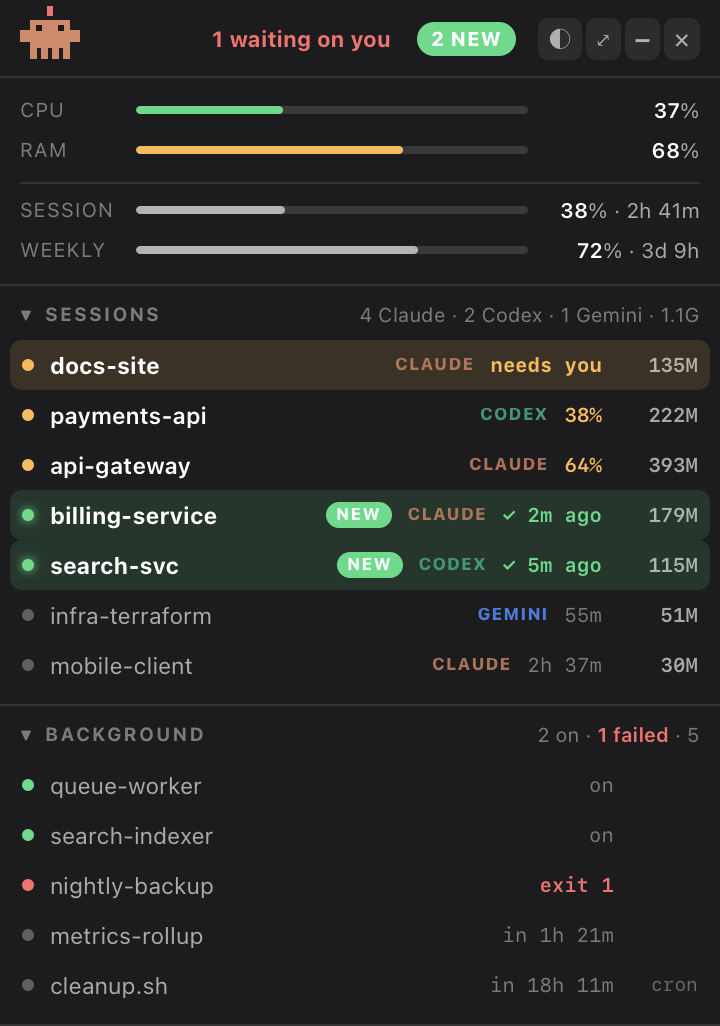
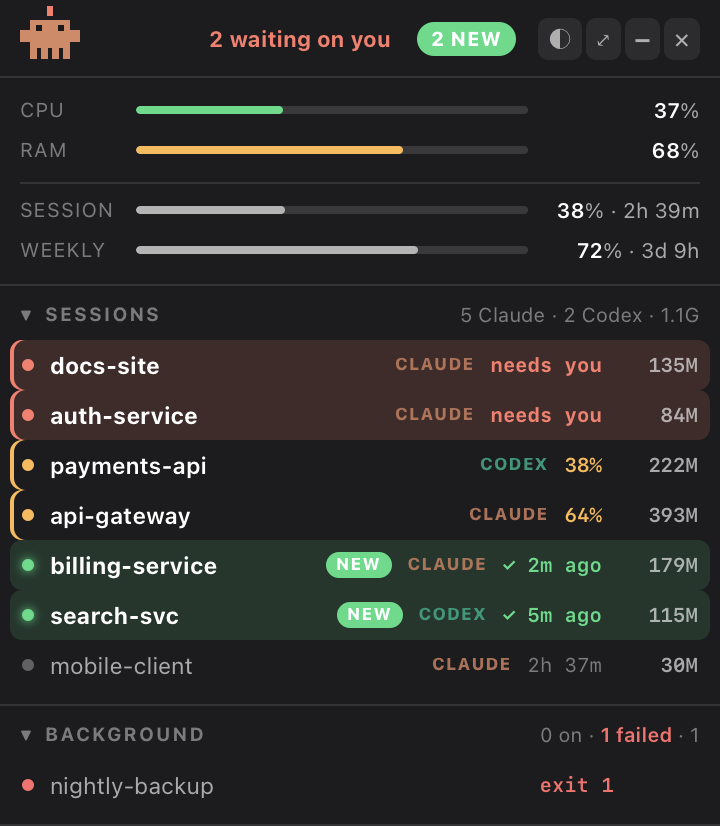
Fix stale "needs you", give each state its own colour, stop the list moving
Three things, all reported from real use:

A session showed "needs you" while it was actively working. Answering a
*permission* prompt submits no prompt, so the clearing hook never fires and the
marker survived until the turn ended. Busy now clears it directly — a session
that is working cannot be blocked on a human.

Working and needs-you were both amber, so the two most different states looked
identical. Needs-you gets its own red token, working keeps amber, done stays
green, and each row carries a matching left edge.

A single click jumped to the terminal *and* re-ranked the row, so the list
re-sorted mid-double-click and the second click hit whatever had moved into
place. Jumping is now double-click, and the order is frozen while the pointer
is over the list.

Also adds a per-alert "push down" control, for a "needs you" that isn't
actually urgent: it stops the character waving and the title bar shouting, but
the same session asking again later comes back to the top.

diff --git a/ui.html b/ui.html
@@ -15,9 +15,12 @@
     --track: rgba(0,0,0,.13);
     --hover: rgba(0,0,0,.06);
     --idle:  rgba(0,0,0,.30);
-    --busy:  #c26a00;
-    --done:  #12833f;
+    --busy:  #c26a00;   /* working — in progress */
+    --wait:  #d32f2f;   /* needs you — you are the blocker */
+    --done:  #12833f;   /* finished */
     --fail:  #c62828;
+    --waitBg:  rgba(211,47,47,.12);
+    --waitLine:rgba(211,47,47,.38);
     --bannerBg:  rgba(18,131,63,.13);
     --bannerLine:rgba(18,131,63,.40);
   }
@@ -31,8 +34,11 @@
     --hover: rgba(255,255,255,.07);
     --idle:  rgba(255,255,255,.30);
     --busy:  #ffb84d;
+    --wait:  #ff7a6b;
     --done:  #3ddc84;
     --fail:  #ff6b6b;
+    --waitBg:  rgba(255,122,107,.16);
+    --waitLine:rgba(255,122,107,.42);
     --bannerBg:  rgba(61,220,132,.14);
     --bannerLine:rgba(61,220,132,.34);
   }
@@ -60,7 +66,7 @@
   #tally{margin-left:auto;font-size:11px;color:var(--fg2);white-space:nowrap;
        overflow:hidden;text-overflow:ellipsis;min-width:0}
   #tally b{color:var(--busy);font-weight:700}
-  #tally b.wait{color:var(--fail)}
+  #tally b.wait{color:var(--wait)}
   #minstat{display:none;font-size:10.5px;color:var(--fg3);white-space:nowrap}
   body.min #minstat{display:inline}
   .btns{display:flex;gap:2px;flex:none;margin-left:4px}
@@ -126,17 +132,17 @@
   @keyframes chHop{0%,100%{transform:translateY(0)}45%{transform:translateY(-4px)}}
   @keyframes chWave{0%,100%{transform:rotate(-20deg)}50%{transform:rotate(-65deg)}}
   @keyframes chBang{0%,100%{opacity:1}50%{opacity:.25}}
-  .ch .bang{display:none;fill:var(--fail)}
+  .ch .bang{display:none;fill:var(--wait)}
   .ch .arm-l{transform-origin:2px 3px}
   .ch .arm-r{transform-origin:9px 3px}
   .ch .eyes{transform-origin:5.5px 1.5px}
 
   /* a session blocked on you outranks everything else */
-  .row.waiting{background:rgba(194,106,0,.14)}
-  body.dark .row.waiting{background:rgba(255,184,77,.14)}
-  .row.waiting .st{background:var(--busy);animation:chBang .8s ease-in-out infinite}
+  .row.waiting{background:var(--waitBg);
+               box-shadow:inset 2px 0 0 var(--wait)}
+  .row.waiting .st{background:var(--wait);animation:chBang .8s ease-in-out infinite}
   .row.waiting .nm{color:var(--fg);font-weight:700}
-  .row.waiting .meta{color:var(--busy);font-weight:700}
+  .row.waiting .meta{color:var(--wait);font-weight:700}
 
   /* ---------- collapsed (minimised) ---------- */
   body.min .sec,body.min #banner{display:none !important}
@@ -150,8 +156,8 @@
      panel raises its own alarm: it is always on top anyway. */
   body.alerting{animation:alertPulse .7s ease-in-out 6}
   @keyframes alertPulse{
-    0%,100%{box-shadow:inset 0 0 0 0 rgba(198,40,40,0)}
-    50%    {box-shadow:inset 0 0 0 3px rgba(198,40,40,.85)}
+    0%,100%{box-shadow:inset 0 0 0 0 transparent}
+    50%    {box-shadow:inset 0 0 0 3px var(--waitLine)}
   }
 
   /* ---------- finished banner ---------- */
@@ -214,6 +220,7 @@
   body.compact .row{padding:3px 5px;gap:6px}
   .row:hover{background:var(--hover)}
   .row .st{width:6px;height:6px;border-radius:50%;flex:none;background:var(--idle)}
+  .row.busy{box-shadow:inset 2px 0 0 var(--busy)}
   .row.busy .st{background:var(--busy);animation:breathe 1.5s ease-in-out infinite}
   .row.done .st{background:var(--done);box-shadow:0 0 6px var(--done)}
   .row.fail .st{background:var(--fail)}
@@ -241,6 +248,12 @@
   .row .prov{flex:none;font-size:8.5px;font-weight:800;letter-spacing:.05em;
              text-transform:uppercase;opacity:.9}
   body.single-provider .row .prov{display:none}
+  /* push a "needs you" down when it isn't actually urgent */
+  .row .push{display:none;flex:none;font-size:11px;line-height:1;color:var(--fg3);
+             padding:2px 4px;border-radius:4px}
+  .row.waiting:hover .push{display:inline-block}
+  .row .push:hover{color:var(--fg);background:var(--track)}
+  .row.pushed .st{opacity:.5}
   .row .mem{flex:none;font-size:10px;color:var(--fg2);min-width:40px;
             text-align:right;font-weight:600}
   .row.heavy .mem{color:var(--fail)}
@@ -392,6 +405,29 @@ function maybeNotify(list){
   if (changed) localStorage.setItem('hudNotified', JSON.stringify(notified));
 }
 
+/* ---------- de-prioritised "needs you" ------------------------------------
+   Keyed by the waiting timestamp, so pushing one down is only for *this*
+   interruption — if the same session asks again later it comes straight back
+   to the top. */
+let pushed = {};
+try { pushed = JSON.parse(localStorage.getItem('hudPushed') || '{}'); } catch(e){}
+const isWaiting = s => s.status === 'waiting' && pushed[s.sid] !== s.waitingAt;
+function pushDown(s){
+  if (s.waitingAt != null) {
+    pushed[s.sid] = s.waitingAt;
+    localStorage.setItem('hudPushed', JSON.stringify(pushed));
+  }
+}
+
+/* ---------- keep the list still under the cursor ---------------------------
+   Rank changes (marking one read, one going idle) used to re-sort the list
+   mid-click, so the second half of a double click landed on whatever row had
+   slid into that spot. Freeze the order while the pointer is inside it. */
+let frozen = null;
+function freezeOrder(){
+  frozen = [...$('list-s').children].map(r => r.dataset.k);
+}
+
 /* ---------- window dragging: anywhere that isn't a control ---------- */
 document.addEventListener('mousedown', e => {
   if (e.target.closest('.row, .hd, .xbtn, #banner, #badge')) return;
@@ -428,7 +464,7 @@ const bytes = b => b == null ? ''
 const PAL = {
   light:{fail:'#c62828', busy:'#c26a00', done:'#12833f', calm:'rgba(0,0,0,.45)'},
   dark: {fail:'#ff6b6b', busy:'#ffb84d', done:'#3ddc84', calm:'rgba(255,255,255,.62)'}
-};
+};  // meters only — row/state colours live in CSS custom properties
 const pal = () => PAL[body.classList.contains('dark') ? 'dark' : 'light'];
 const loadColor  = p => { const c = pal();
   return p > 85 ? c.fail : p > 60 ? c.busy : c.done; };
@@ -493,18 +529,31 @@ window.render = d => {
   lastData = d;
   const c = d.counts;
   // SVG elements need setAttribute — .className is a read-only SVGAnimatedString
-  $('ch').setAttribute('class',
-    'ch ' + (c.waiting ? 'wait' : c.busy ? 'work' : 'rest'));
-  $('tally').innerHTML = c.waiting
-    ? `<b class="wait">${c.waiting} waiting on you</b>`
-    : c.busy ? `<b>${c.busy} running</b> · ${c.total - c.busy} idle`
-    : `${c.total} idle`;
+  // (character + tally are set below, once demotions are known)
 
   /* running first, then anything unopened, then the rest */
-  const rank = s => s.status === 'waiting' ? 0 : s.status === 'busy' ? 1
+  const rank = s => isWaiting(s) ? 0 : s.status === 'busy' ? 1
                   : isUnread(s) ? 2 : s.status === 'done' ? 3 : 4;
   const sessions = d.sessions.slice()
     .sort((a,b) => rank(a) - rank(b) || a.idleFor - b.idleFor);
+
+  // While the pointer is over the list, keep whatever order it already had.
+  if (frozen) {
+    const at = new Map(frozen.map((k, i) => [k, i]));
+    const seat = s => at.has('s' + s.sid) ? at.get('s' + s.sid) : 1e9;
+    sessions.sort((a, b) => seat(a) - seat(b));
+  }
+
+  const waitingNow = sessions.filter(isWaiting).length;
+
+  // A pushed-down alert must also stop the character waving and stop shouting
+  // in the title bar — that's what "not prioritised" has to mean.
+  $('ch').setAttribute('class',
+    'ch ' + (waitingNow ? 'wait' : c.busy ? 'work' : 'rest'));
+  $('tally').innerHTML = waitingNow
+    ? `<b class="wait">${waitingNow} waiting on you</b>`
+    : c.busy ? `<b>${c.busy} running</b> · ${c.total - c.busy} idle`
+    : `${c.total} idle`;
 
   maybeNotify(sessions);
 
@@ -579,6 +628,7 @@ window.render = d => {
         : dur(s.idleFor);
     row.innerHTML = `<span class="st"></span><span class="nm"></span>` +
       `<span class="new">NEW</span>` +
+      `<span class="push" title="Not urgent — push this down">↓</span>` +
       `<span class="prov"></span>` +
       `<span class="meta mono">${meta}</span>` +
       `<span class="mem mono">${bytes(s.mem)}</span>`;
@@ -586,11 +636,20 @@ window.render = d => {
     const pv = row.querySelector('.prov');
     pv.textContent = s.providerLabel;
     pv.style.color = s.colour;
-    row.title = `${s.providerLabel}${s.exact ? '' : ' (state inferred from CPU)'}\n` +
+    row.title = `Double-click to open this terminal\n` +
+      `${s.providerLabel}${s.exact ? '' : ' (state inferred from CPU)'}\n` +
       `${s.name}\npid ${s.pid} · ${s.devtty}\n` +
       `RAM ${bytes(s.mem)} (process tree) · CPU ${s.treeCpu}%\n` +
       `up ${s.uptime}\n${s.cwd}`;
-    row.onclick = () => {
+    row.querySelector('.push').onclick = e => {
+      e.stopPropagation();
+      pushDown(s);
+      render(d);
+    };
+    // Double click, not single: a single click used to jump *and* re-rank the
+    // row out from under the pointer.
+    row.onclick = null;
+    row.ondblclick = () => {
       markRead(s);
       send({cmd:"focus", tty:s.devtty});
       render(d);
@@ -620,6 +679,12 @@ window.render = d => {
 
   layout();
 };
+
+$('list-s').addEventListener('pointerenter', freezeOrder);
+$('list-s').addEventListener('pointerleave', () => {
+  frozen = null;
+  if (lastData) render(lastData);
+});
 
 window.__notifyReady = () => { applyNative(); send({cmd:'ready'}); layout(); };
 window.__notifyReady();

diff --git a/collect.py b/collect.py
@@ -268,6 +268,13 @@ def newest_log_mtime(pattern):
         return 0
 
 
+def drop_attention(sid):
+    try:
+        os.remove(os.path.join(ATTN_DIR, sid + ".json"))
+    except OSError:
+        pass
+
+
 def read_attention():
     """Sessions an agent has asked for a human about, dropped by its hook.
     Keyed by session id."""
@@ -385,6 +392,14 @@ def collect_sessions(now_ms):
                    "cpusec": cpusec, "changed": changed})
 
         wait = attn.get(sid)
+        if wait and busy:
+            # A session that is actively working cannot be blocked on a human.
+            # The clearing hook doesn't fire when you answer a *permission*
+            # prompt — nothing was submitted — so the marker would otherwise
+            # survive and show a stale "needs you" over a running session.
+            drop_attention(sid)
+            wait = None
+
         if wait:
             bucket = "waiting"
         elif busy:

diff --git a/README.md b/README.md
@@ -38,12 +38,27 @@ It sorts itself to the top of the list, and the count rides on the menu-bar icon
 (`◧3`) even when the panel is hidden. The only thing that clears it is you
 actually going and looking. That's the entire point.
 
-**Click the row, land in the right terminal.** No hunting. The window comes
-forward with the correct tab already selected.
+**Double-click the row, land in the right terminal.** No hunting. The window
+comes forward with the correct tab already selected.
 
 **Anything blocked on you shouts.** A session waiting for permission jumps to
-the top in amber reading `needs you`, the panel un-minimises itself, pulses red,
-and plays a sound. You can't scroll past it.
+the top in **red** reading `needs you`, the panel un-minimises itself, pulses,
+and plays a sound. You can't scroll past it. Not actually urgent? Hover it and
+hit `↓` to push it back down — the character stops waving and the title bar
+stops shouting. If that session asks again later, it comes straight back up.
+
+The three states never share a colour, so the list reads at a glance:
+
+| | | |
+|---|---|---|
+| 🔴 red | `needs you` | you are the blocker |
+| 🟠 amber | working | still cooking, leave it |
+| 🟢 green | `✓ done` | finished, go and look |
+
+**Double-click a row** to jump to its terminal — and while your pointer is over
+the list, nothing re-orders under it. A single click used to jump *and* re-rank
+the row out from under the cursor, so the second half of a double click landed
+on whatever had slid into that spot.
 
 ## The little guy
 
